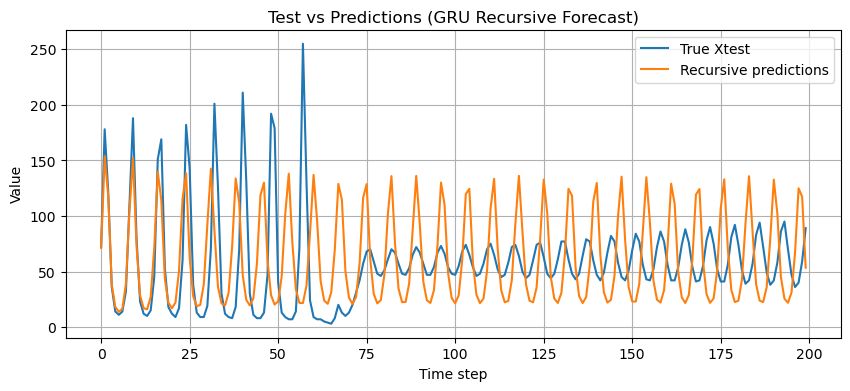
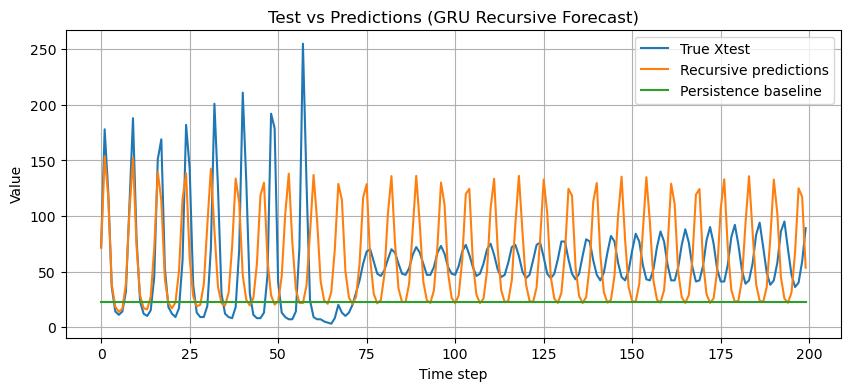
added a very simple baseline function

Changed region(s): [[0.1224, 0.7673, 0.9482, 0.798], [0.7341, 0.2148, 0.9788, 0.2762]]

diff --git a/test_model.py b/test_model.py
@@ -5,8 +5,9 @@ from sklearn.preprocessing import MinMaxScaler
 import numpy as np
 from sklearn.metrics import mean_squared_error, mean_absolute_error
 from tensorflow.keras.models import load_model
-from train_model import load_data, recursive_predict 
+from train_model import load_data, recursive_predict, persistence_baseline
 import os
+
 
 
 if __name__ == "__main__":
@@ -51,18 +52,33 @@ if __name__ == "__main__":
     """
     print("Loading Xtest...")
     test_series = load_data("Xtest.mat","Xtest").reshape(-1,1)
+   
+    """
+    5. BASELINE PREDICTIONS --> assumes the future will stay the same as the past 
+    """
+    last_train_value = train_series[-1]
+    baseline_preds = persistence_baseline(
+        last_value = last_train_value,
+        steps=len(test_series)
+    )
+    baseline_mse = mean_squared_error(test_series, baseline_preds)
+    baseline_mae = mean_absolute_error(test_series, baseline_preds)
+
+    print("\nBaseline results")
+    print("Baseline MSE:", baseline_mse)
+    print("Baseline MAE:", baseline_mae)
 
     """
-    5. EVALUATOIN
+    6. EVALUATOIN
     """
     mse = mean_squared_error(test_series, future_preds_original)
     mae = mean_absolute_error(test_series, future_preds_original)
-    print("\n Test results")
+    print("\nTest results")
     print("MSE:", mse)
     print("MAE:", mae)
 
     """
-    6. SAVE RESULTS
+    7. SAVE RESULTS
     """
     pred_path = "results/test_predictions.csv"
     np.savetxt(
@@ -73,12 +89,13 @@ if __name__ == "__main__":
     print("Saved predictions to:", pred_path)
 
     """
-    7. PLOT RESULTS
+    8. PLOT RESULTS
     """
     plt.figure(figsize=(10, 4))
 
     plt.plot(test_series, label="True Xtest")
     plt.plot(future_preds_original, label="Recursive predictions")
+    plt.plot(baseline_preds, label="Persistence baseline")
     plt.title("Test vs Predictions (GRU Recursive Forecast)")
     plt.xlabel("Time step")
     plt.ylabel("Value")

diff --git a/train_model.py b/train_model.py
@@ -171,7 +171,7 @@ def visualize(error_dict, title):
     plt.title(f"Error Score vs Window Size: {title}")
     plt.grid(True, linestyle=':', alpha=0.6)
     
-    #safe the plot
+    #save the plot
     plt.savefig(f'results/{title}.png', bbox_inches='tight')
     plt.show()
 
@@ -236,6 +236,13 @@ def recursive_predict(model, scaled_data, window_size, steps=200):
 
     return np.array(predictions).reshape(-1, 1)
 
+def persistence_baseline(last_value, steps=200):
+    """
+    Naive baseline forecast
+    Predicts the last observed value repeatedly
+    """
+    return np.full((steps, 1), last_value)
+
 if __name__ == "__main__":
     """
     Loads and scales data
@@ -280,7 +287,6 @@ if __name__ == "__main__":
     val_mse = mean_squared_error(y_val, val_pred)
     val_mae = mean_absolute_error(y_val, val_pred)
 
-
     # Convert validation predictions and true values back to original scale
     val_pred_original = scaler.inverse_transform(val_pred)
     y_val_original = scaler.inverse_transform(y_val)
@@ -288,7 +294,6 @@ if __name__ == "__main__":
     # Errors on original scale
     val_mse_original = mean_squared_error(y_val_original, val_pred_original)
     val_mae_original = mean_absolute_error(y_val_original, val_pred_original)
-
 
     print("\nFinal GRU results on scaled validation data")
     print("Best window size:", best_window)